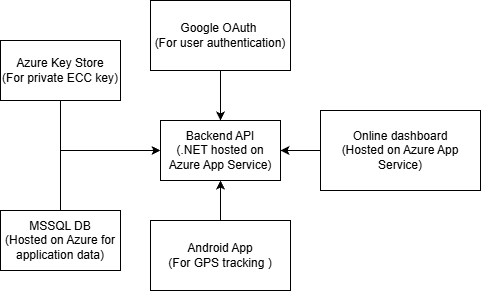
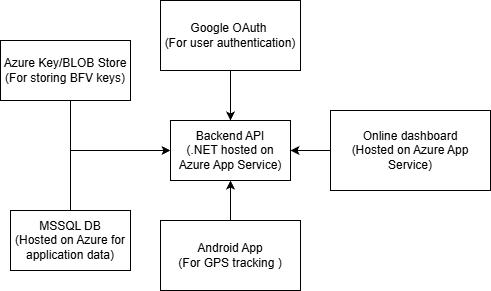
Adding a few diagrams used for the presentation

diff --git a/SourceCode/React/react-frontend/src/pages/Dashboard.js b/SourceCode/React/react-frontend/src/pages/Dashboard.js
@@ -8,11 +8,13 @@ import L from "leaflet";
 
 
 import markerIcon from "leaflet/dist/images/marker-icon.png";
+import markerIcon2x from "leaflet/dist/images/marker-icon-2x.png";
 import markerShadow from "leaflet/dist/images/marker-shadow.png";
 
 delete L.Icon.Default.prototype._getIconUrl;
 L.Icon.Default.mergeOptions({
     iconUrl: markerIcon,
+    iconRetinaUrl: markerIcon2x,
     shadowUrl: markerShadow,
 });
 

diff --git a/SourceCode/dotnet/obj/Debug/net8.0/CyberTrackAPI.AssemblyInfo.cs b/SourceCode/dotnet/obj/Debug/net8.0/CyberTrackAPI.AssemblyInfo.cs
@@ -13,7 +13,7 @@ using System.Reflection;
 [assembly: System.Reflection.AssemblyCompanyAttribute("CyberTrackAPI")]
 [assembly: System.Reflection.AssemblyConfigurationAttribute("Debug")]
 [assembly: System.Reflection.AssemblyFileVersionAttribute("1.0.0.0")]
-[assembly: System.Reflection.AssemblyInformationalVersionAttribute("1.0.0+ee5cc69d54c674b6cb7dee2efc0aa872efbcd767")]
+[assembly: System.Reflection.AssemblyInformationalVersionAttribute("1.0.0+f9b257086c7443b1e232de8ff21f295045f0b9b8")]
 [assembly: System.Reflection.AssemblyProductAttribute("CyberTrackAPI")]
 [assembly: System.Reflection.AssemblyTitleAttribute("CyberTrackAPI")]
 [assembly: System.Reflection.AssemblyVersionAttribute("1.0.0.0")]